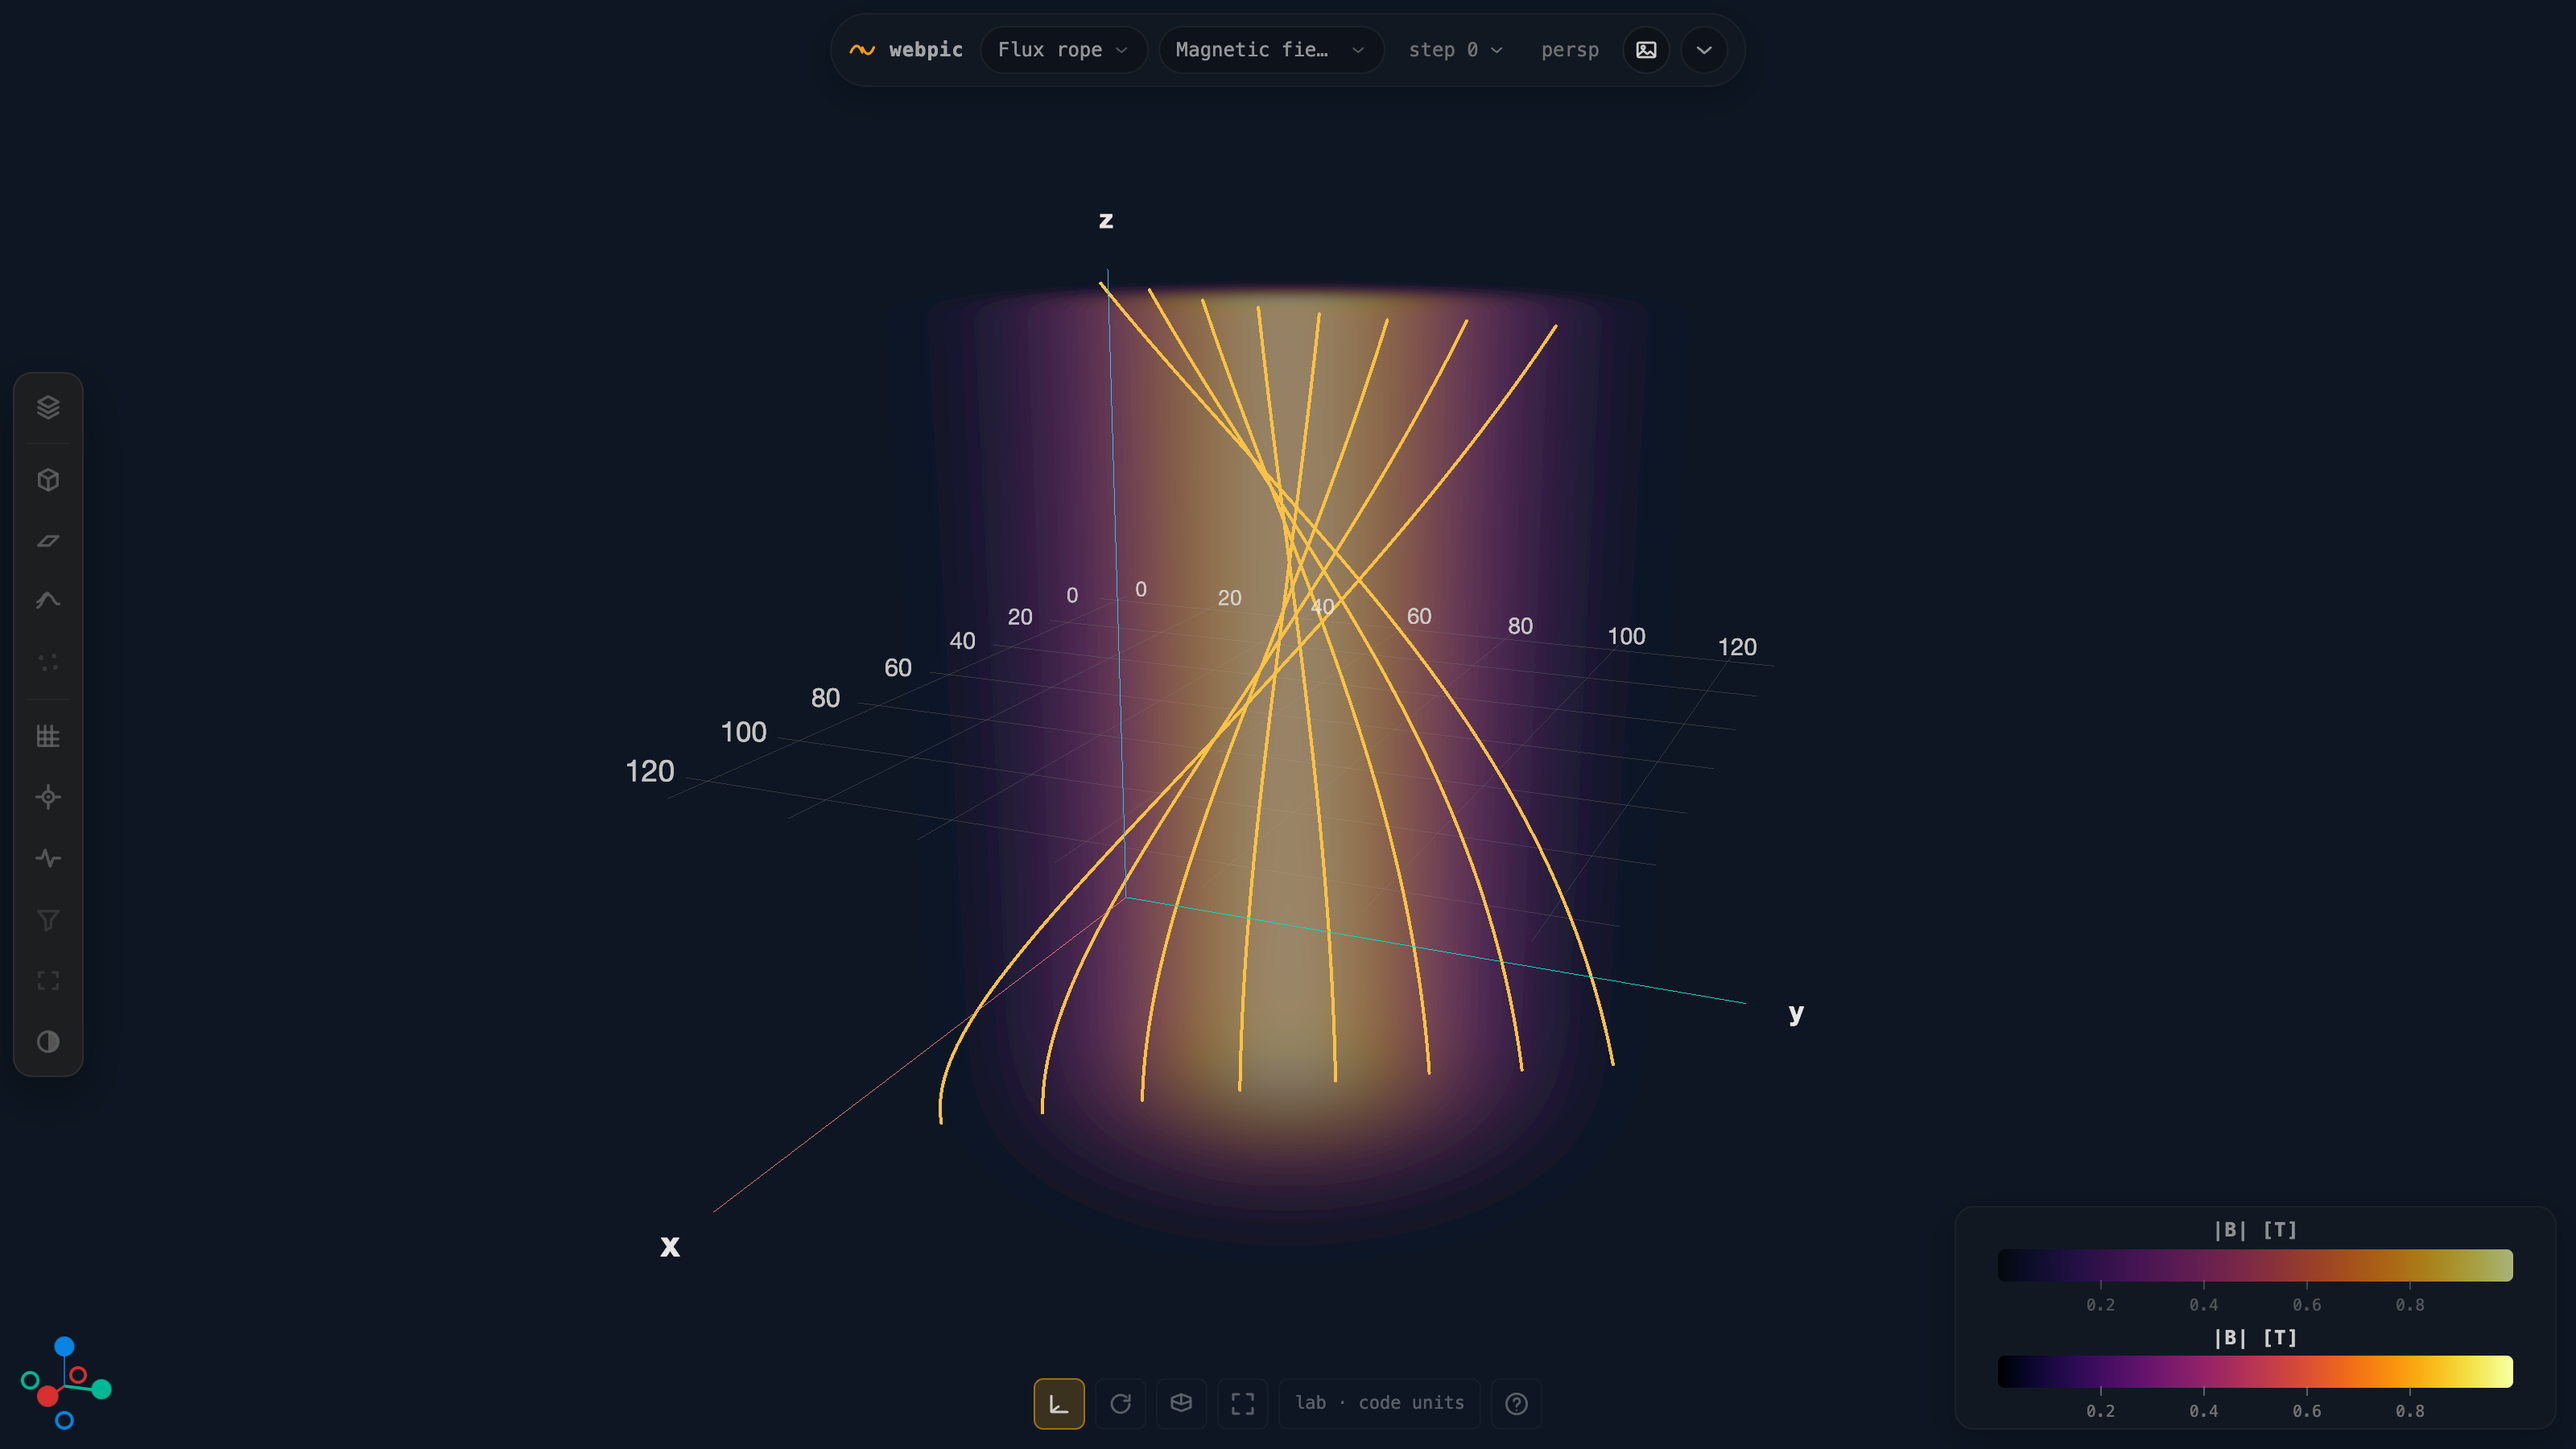
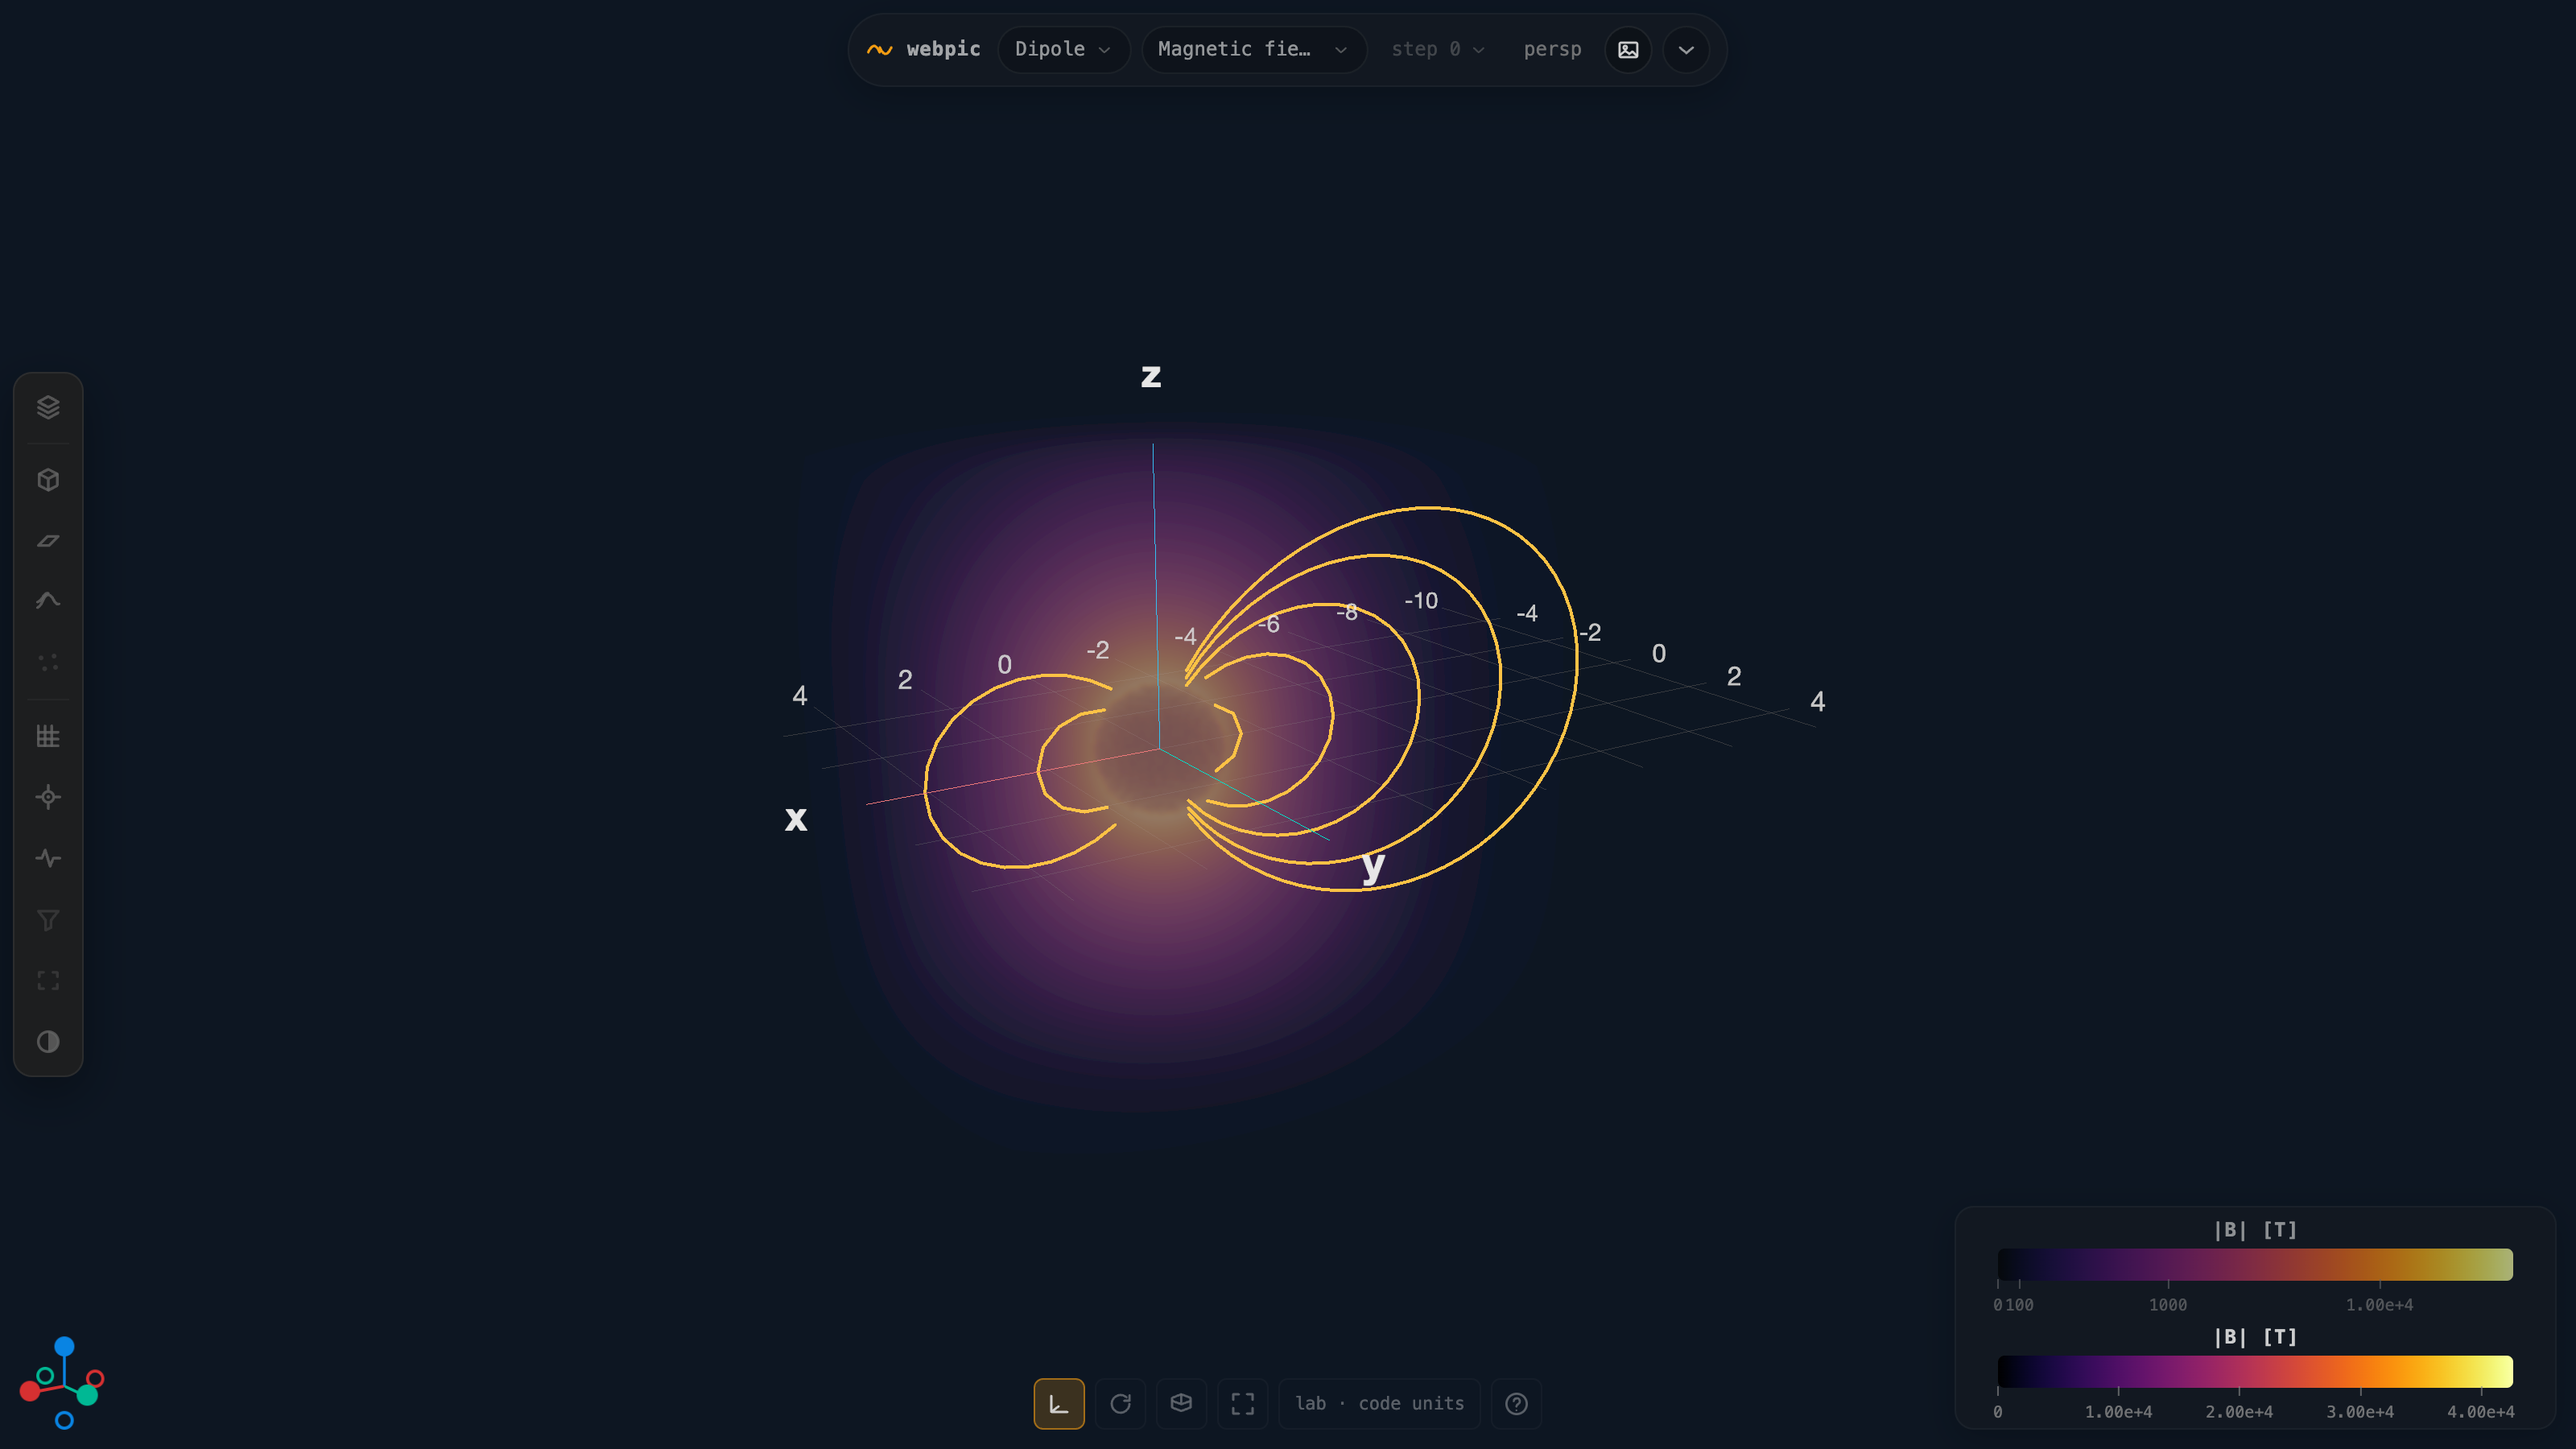
docs: shoot the hero on the dipole, and default it to symlog
The dipole renders properly now that a null seed no longer kills its field
lines, and it makes a better hero than the flux rope: seven closed loops
arcing over the r^-3 falloff, terminating on the inner cutoff.

Its catalog default moves log -> symlog. With the zeroed interior the
window's low edge sits at 0, and log then spends its whole ramp on the
three decades between the cutoff and the box edge — the box fills with
haze that hides the traces. symlog's linear waist near zero keeps the
falloff readable, which is what a default scale is for.

So the shot script drives only the dataset picker (the dipole has no URL
parameter); everything else in the frame is what a reader gets by picking
Dipole. Pose moved off the meridian the seed rake lies in, so the loops
read in perspective rather than as a flat fan.

Assisted-by: Claude Opus 5 (1M context)

diff --git a/scripts/shot-readme.ts b/scripts/shot-readme.ts
@@ -4,16 +4,20 @@ import { join } from "node:path";
 import { chromium } from "playwright-core";
 import { build, preview } from "vite";
 
-// Regenerates the README hero from the real production build: the synthetic flux rope, |B| volume
-// raymarching under a traced field-line rake. Headed Chrome — WebGPU on macOS/Metal is unreliable
-// headless. `npx tsx scripts/shot-readme.ts [outPath]`; override the view with WEBPIC_POSE.
+// Regenerates the README hero from the real production build: the Earth dipole, |B| volume raymarching
+// under a traced field-line rake that closes on the inner cutoff. Headed Chrome — WebGPU on
+// macOS/Metal is unreliable headless. `npx tsx scripts/shot-readme.ts [outPath]`; override the view
+// with WEBPIC_POSE.
+//
+// The dipole is a dropdown away rather than a URL parameter, so this drives the top bar's dataset
+// picker — one click for a reader who wants the same frame. Everything else is the app's own default:
+// the catalog's log scale over |B|, which spans four decades between the inner cutoff and the box edge.
 
 const OUT = process.argv[2] ?? "docs/assets/webpic-hero.png";
-const SIZE = 128; // volume resolution: crisp enough for a still, well under the 256³ ceiling
 const WINDOW = { width: 1600, height: 900 };
-// "az,el,dist,tx,ty,tz,roll" (radians) — low elevation off the x axis, so the rake's traces cross
-// on screen and the rope reads as twisted rather than as a bundle of parallel lines.
-const POSE = process.env.WEBPIC_POSE ?? "0.4000,0.3000,2.1000,0,0,0,0";
+// "az,el,dist,tx,ty,tz,roll" (radians) — off the meridian the seed rake lies in, so the closed loops
+// read as loops in perspective rather than as a flat fan, with the near-planet field filling frame.
+const POSE = process.env.WEBPIC_POSE ?? "1.0000,0.3000,2.0000,0,0,0,0";
 const SETTLE_MS = 3000; // trace + volume upload, then the camera settle ramp back to full render scale
 
 async function main(): Promise<void> {
@@ -39,15 +43,21 @@ async function main(): Promise<void> {
     const page = await context.newPage();
     page.on("pageerror", (e) => console.error("[pageerror]", e.message));
 
-    await page.goto(`${url}?n=${SIZE}&fieldlines&pose=${POSE}`, { waitUntil: "load" });
+    await page.goto(`${url}?fieldlines&pose=${POSE}`, { waitUntil: "load" });
     await page.waitForFunction(
       () => performance.getEntriesByName("webpic:first-frame").length > 0,
       undefined,
       { timeout: 60_000 },
     );
+    // Switch to the dipole (no URL parameter for it — the top bar's dataset picker is the way in).
+    await page.click('button[data-control="dataset"]');
+    await page.click('.webpic-popover_item[data-value="dipole"]');
+    await page.waitForTimeout(SETTLE_MS); // re-read + recompute + retrace against the new grid
+
     // The probe marker defaults on and lands dead centre of the frame — off for the still.
     const probe = page.locator('[aria-label="Hide point marker"]');
     if ((await probe.count()) > 0) await probe.first().click();
+
     await page.mouse.move(WINDOW.width - 4, WINDOW.height - 4); // park the pointer clear of hovers
     await page.waitForTimeout(SETTLE_MS);
     await page.screenshot({ path: OUT });

diff --git a/src/app/datasets.ts b/src/app/datasets.ts
@@ -33,11 +33,14 @@ export function datasetCatalog(n: number): ReadonlyMap<string, DatasetEntry> {
     [
       "dipole",
       {
-        // magviz's static Earth dipole — non-cubic bounds, |B| spanning orders of magnitude (log reads
-        // best). One timestep, so the scrub collapses to a single step on switch.
+        // magviz's static Earth dipole — non-cubic bounds, |B| spanning orders of magnitude between the
+        // inner cutoff and the box edge. symlog over the plain log: the zeroed interior puts the
+        // window's low edge at 0, where log has no bottom and every real value crowds the top of the
+        // ramp; symlog's linear waist near zero keeps the falloff readable. One timestep, so the scrub
+        // collapses to a single step on switch.
         makeDataset: () => dipoleStep(),
         streamSource: dipoleHandle(),
-        defaultScale: "log",
+        defaultScale: "symlog",
       },
     ],
   ]);

diff --git a/README.md b/README.md
@@ -14,7 +14,7 @@
 </p>
 
 <p align="center">
-  <img src="https://raw.githubusercontent.com/rusaitis/webpic/main/docs/assets/webpic-hero.png" alt="webpic rendering a synthetic magnetic flux rope: volume raymarching of |B| with traced field lines" width="900">
+  <img src="https://raw.githubusercontent.com/rusaitis/webpic/main/docs/assets/webpic-hero.png" alt="webpic rendering an Earth dipole: volume raymarching of |B| on a symlog scale, with traced field lines closing on the inner cutoff" width="900">
 </p>
 
 A browser-native 3D visualizer and lightweight analyzer for plasma simulation output from
@@ -34,7 +34,8 @@ analysis agree by construction rather than by convention.
 **[rusaitis.github.io/webpic](https://rusaitis.github.io/webpic/)** — boots on a synthetic
 magnetic flux rope, no data needed. Left-drag orbits, wheel dollies, right-drag pans,
 double-click focuses. `?fieldlines` adds traced field lines; `?n=128` raises the volume
-resolution.
+resolution. The view above is the **Dipole** dataset — one pick away in the top bar, and shown with
+the defaults it ships with.
 
 Or run it locally:
 
